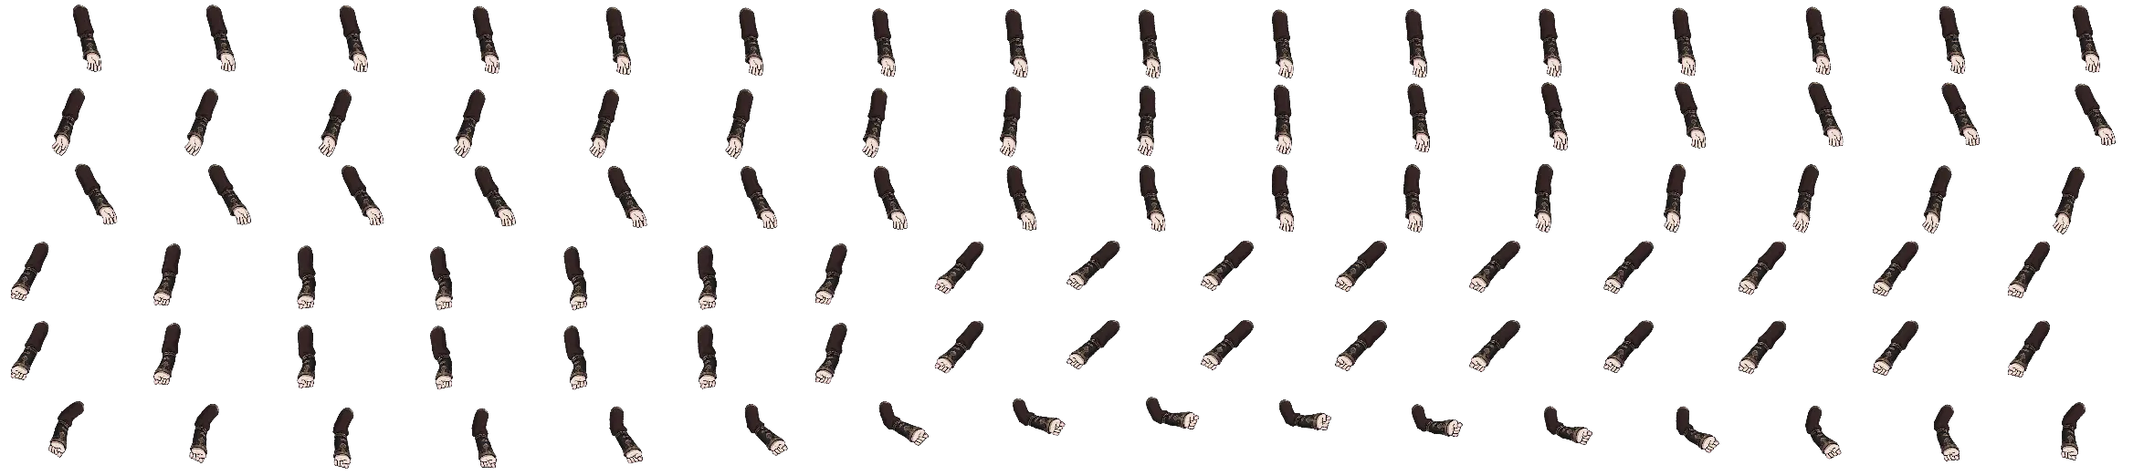
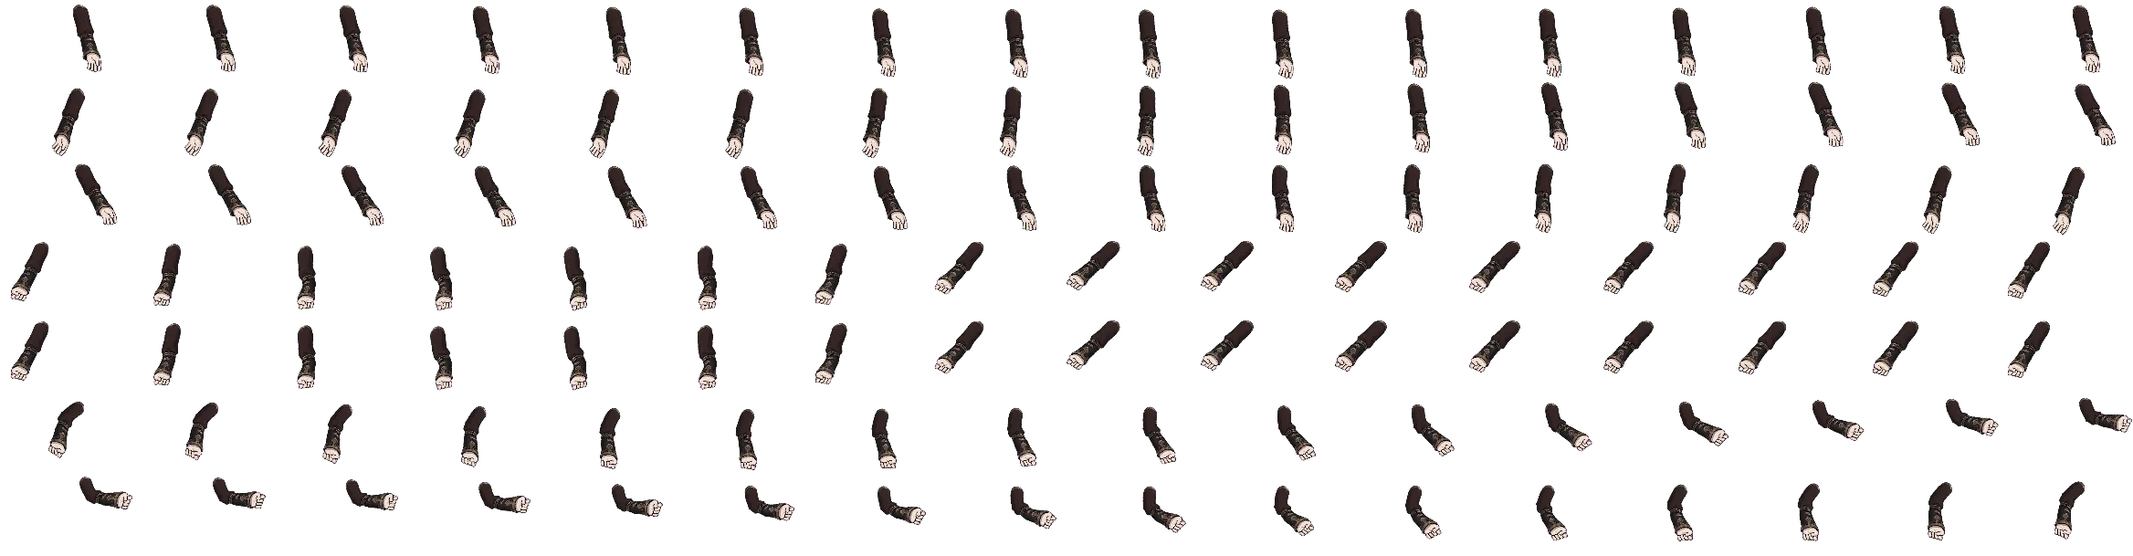
Khối chạy nướng đủ 32 khung — số khung khai theo từng bộ
Đếm mốc thời gian thật trong gói Spine: `00_Run` dài 0,600 giây với khoá đặt
trên lưới 30 khung/giây, tức 18 KHUNG GỐC. Bảng khung đang lấy 16 mẫu — dưới
bản gốc, và bàn chân dịch 13,31px mỗi khung, thô gấp 3,4 lần khối đi (3,96px).
Đối chiếu: `00_Walk` dài 0,800s = 24 khung gốc mà đang nướng 32, tức khối đi
đã chứa trọn bản gốc từ trước. Chỉ khối chạy là thiếu.

Nay nướng 32 khung: 6,66px mỗi khung, hết chỗ phải che bằng hoà mờ.

CHỖ VƯỚNG và cách gỡ. Bảng dài thêm một hàng (96 ô → 112 ô). Bốn bộ chưa có
gói Spine gốc — sbhd1 và ba bộ giáp dwvt1/dkgs1/dwsm1 — vẫn chỉ 6 hàng, đọc ô
96 trở đi là rơi ra ngoài đáy ảnh và nhân vật MẤT HÌNH nửa vòng chạy. Trước
đây tôi nói việc này phải đợi đủ tám bộ; nói thế là tuyệt đối hoá một ràng
buộc do bố cục dùng chung sinh ra, chứ không phải luật.

Gỡ bằng cách cho mỗi bộ tự khai số khung khối chạy (`NV_KHUNG_R`): bộ đã nướng
lại 32, bộ cũ 16, hai đời chạy song song. Mốc bắt đầu giữ nguyên ô 80 nên
không lệch mốc, chỉ khác SỐ khung. Chỗ chồng lớp — nơi duy nhất một khung hình
đọc nhiều bộ khác số khung cùng lúc — quy về PHA 0..1 rồi mỗi lớp mới nhân với
số khung của chính nó, nên thân 32 khung và giáp 16 khung dừng ở cùng một thời
điểm trong vòng chạy, chỉ khác độ mịn.

Nướng lại cả bốn bộ có gói gốc: dkcw1 · dwsc1 · elfar1 · dlcm1. Gốc cắt lớp
xê dịch ở ba chỗ (dwsc1 `h`, elfar1 `c` và `a`) vì 16 khung mới thêm có tư thế
vươn rộng hơn — đã cập nhật NV_LOP_HOP.
[…]

diff --git a/public/game/game.js b/public/game/game.js
@@ -12987,19 +12987,23 @@ function heroGearSig(gv){
   return `${Math.round(gv.t*10)}_${gv.n}_${gv.rarity}_${Math.round(gv.plus)}_${gv.setColor||''}_${w}_${l}`;
 }
 // Tư thế của MỘT khung hình — dựng lại đúng từ chỉ số khung, để ảnh trong bộ nhớ đệm luôn khớp khoá.
-function heroFramePose(kind, idx, act, sw){
+function heroFramePose(kind, idx, act, sw, n){
   const TAU = Math.PI * 2;
   const sway = HS_SWAY[sw] || 0;
-  const ps = kind === 'c' ? heroPose(0, false, 0, (idx + 0.5) / HS_FRAMES.c, 0, act, sway, sway)
-           : kind === 'a' ? heroPose(0, false, (idx + 0.5) / HS_FRAMES.a, 0, 0, act, sway, sway)
-           : (kind === 'w' || kind === 'r') ? heroPose((idx + 0.5) / HS_FRAMES[kind] * TAU, true, 0, 0, 0, act, sway, sway)
-           : heroPose(0, false, 0, 0, (idx + 0.5) / HS_FRAMES.i * TAU * 620, act, sway, sway); // nhịp thở
+  // `n` là số khung THẬT của khối đang vẽ. Khối chạy nay khai theo từng bộ (xem NV_KHUNG_R)
+  // nên không đọc thẳng HS_FRAMES được nữa: bộ 32 khung mà chia cho 16 thì pha chạy hai vòng
+  // trong một vòng chân, tư thế dựng lại lệch hẳn so với khoá trong bộ nhớ đệm.
+  const nk = n || HS_FRAMES[kind] || 1;
+  const ps = kind === 'c' ? heroPose(0, false, 0, (idx + 0.5) / nk, 0, act, sway, sway)
+           : kind === 'a' ? heroPose(0, false, (idx + 0.5) / nk, 0, 0, act, sway, sway)
+           : (kind === 'w' || kind === 'r') ? heroPose((idx + 0.5) / nk * TAU, true, 0, 0, 0, act, sway, sway)
+           : heroPose(0, false, 0, 0, (idx + 0.5) / nk * TAU * 620, act, sway, sway); // nhịp thở
   return ps;
 }
 // `now` giả của khung: giữ cho hào quang +10 (hPlusAura/Sweep/Spark) vẫn nhúc nhích theo chu kỳ
 // thay vì đứng chết một kiểu.
-function heroFrameNow(kind, idx){
-  return (idx + 0.5) / (HS_FRAMES[kind] || 8) * Math.PI * 2 * 620;
+function heroFrameNow(kind, idx, n){
+  return (idx + 0.5) / (n || HS_FRAMES[kind] || 8) * Math.PI * 2 * 620;
 }
 // ── THỬ: bộ khung nướng sẵn từ art Spine ────────────────────────────────────────────
 // Bảng khung xếp 16 cột, ô 240x300 = HERO_W+HS_PAD*2 x HERO_H+HS_PAD*2, và gốc (80,212) của
@@ -13106,14 +13110,14 @@ const NV_LOP_HOP = {
   'dkcw1':  { t1:[65,131,124,95,42,105,168,120], c:[61,159,141,99,73,142,122,118],
               a:[94,122,83,90,32,113,135,141], t2:[64,117,133,88,36,114,154,139],
               n:[81,86,109,77,0,79,179,172] },
-  'dwsc1':  { h:[81,91,75,83,3,83,174,185], t1:[67,132,121,75,42,107,168,121],
+  'dwsc1':  { h:[82,91,74,83,3,83,174,185], t1:[67,132,121,75,42,107,168,121],
               c:[61,156,131,103,70,141,127,121], a:[95,121,53,71,31,111,136,146],
               t2:[65,124,132,76,35,114,157,139], n:[83,87,75,57,0,79,178,173] },
   'sbhd1':  { t1:[70,130,114,93,40,111,166,117], c:[63,154,142,105,68,141,130,120],
               a:[89,123,92,94,31,113,140,137], t2:[67,123,124,76,31,115,158,137],
               n:[81,86,109,75,0,79,180,172] },
   'elfar1': { h:[75,84,80,92,0,77,175,194], t1:[67,128,123,80,41,108,167,119],
-              c:[62,151,128,107,67,143,128,120], a:[93,119,56,80,26,110,143,143],
+              c:[62,151,128,108,67,143,128,120], a:[93,119,57,80,26,110,143,143],
               t2:[65,124,132,79,39,115,150,141], n:[79,87,83,61,0,79,181,177] },
   'dlcm1':  { t1:[55,134,146,87,43,97,178,135], c:[63,158,128,100,71,142,125,121],
               a:[93,123,57,72,32,113,137,140], t2:[63,123,139,86,35,114,160,141],
@@ -13175,6 +13179,24 @@ function nvBang(sectKey, tier, gv, kind){
   return NV_BANG2[kind] ? nvTai(ten + '2', 'webp') : nvTai(ten, 'webp');
 }
 function nvMoc(kind){ return NV_BANG2[kind] ? NV_MOC2[kind] : NV_MOC[kind]; }
+// ── SỐ KHUNG KHỐI CHẠY — KHAI THEO TỪNG BỘ ────────────────────────────────────────────────
+// Nguồn `00_Run` dài 0,600 giây, khoá đặt trên lưới 30 khung/giây → 18 KHUNG GỐC. Nướng 16
+// mẫu là LẤY DƯỚI bản gốc, và bàn chân dịch 13,31px mỗi khung — thô gấp 3,4 lần khối đi
+// (3,96px). Nướng 32 thì mọi tư thế gốc đều có mặt, khỏi phải pha khung che chỗ thưa.
+//
+// Nhưng bảng khung dài thêm một hàng: 96 ô (6 hàng) → 112 ô (7 hàng). Bộ nào CHƯA nướng lại
+// vẫn chỉ có 6 hàng, đọc ô 96 trở đi là rơi ra ngoài ảnh — nhân vật MẤT HÌNH nửa vòng chạy.
+// Nên số khung khai theo TỪNG BỘ chứ không phải một hằng dùng chung: bộ đã có gói Spine gốc
+// thì 32, bộ chưa có giữ 16, và hai đời cùng chạy được trong một trận.
+//
+// Mốc bắt đầu (NV_MOC.r = 80) GIỮ NGUYÊN cho cả hai đời, nên chỉ khác SỐ khung chứ không lệch
+// mốc. Chỗ chồng lớp thì quy về PHA 0..1 rồi mới nhân với số khung của chính lớp đó — xem
+// nvKhungGop(), đó là chỗ duy nhất một khung hình đọc nhiều bộ khác số khung cùng lúc.
+const NV_KHUNG_R = { dkcw1: 32, dwsc1: 32, elfar1: 32, dlcm1: 32 };
+function nvSoKhung(ten, kind){
+  if (kind === 'r' && ten && NV_KHUNG_R[ten]) return NV_KHUNG_R[ten];
+  return HS_FRAMES[kind] || 1;
+}
 // ĐƯỜNG VŨ KHÍ NƯỚNG SẴN ĐÃ GỠ. Trước đây `nvVuKhi()` trả bảng khung <bộ>_vk<N>.png để đắp
 // lên thân. Từ khi có thần khí (vũ khí rời tay, vẽ từ món ĐANG trang bị) nó thoát ở dòng chặn
 // trước khi dùng tới bảng — và đó là mọi trường hợp: cả 15 dòng vũ khí đều thuộc 4 loại art
@@ -13231,8 +13253,8 @@ function nvIconUrl(it){
                                0, 0, NV_ICON_PX, NV_ICON_PX);
   return lruDat(_nvIconCache, key, c.toDataURL('image/png'), NV_ICON_CAP);
 }
-function nvVeKhung(g, im, kind, idx){
-  const n = HS_FRAMES[kind] || 1;
+function nvVeKhung(g, im, kind, idx, ten){
+  const n = nvSoKhung(ten, kind);
   const k = nvMoc(kind) + (idx % n);
   g.drawImage(im, (k % NV_COT) * NV_OW, ((k / NV_COT) | 0) * NV_OH, NV_OW, NV_OH,
                   -HS_PAD, -HS_PAD, NV_OW, NV_OH);
@@ -13255,8 +13277,13 @@ function nvKhungGop(sectKey, tier, gv, kind, idx){
   const than = nvTen(sectKey, tier);
   if (!than || !NV_LOP_HOP[than]) return null;      // thân chưa cắt lớp
   const b2 = !!NV_BANG2[kind];
-  const n  = HS_FRAMES[kind] || 1;
-  const k  = nvMoc(kind) + (idx % n);
+  // `idx` do người gọi tính theo số khung của THÂN. Mỗi lớp có thể lấy từ một bộ khác — và
+  // hai bộ có thể khác số khung ở khối chạy (xem NV_KHUNG_R). Nên quy về PHA 0..1 ở đây rồi
+  // mỗi lớp tự nhân với số khung của CHÍNH nó: thân 32 khung và giáp 16 khung vẫn dừng ở
+  // cùng một thời điểm trong vòng chạy, chỉ khác độ mịn. Lấy chung một `k` như bản trước thì
+  // lớp 16 khung nhận chỉ số tới 31, chia dư ra thành đi ngược nửa vòng — tay rời khỏi thân.
+  const nRef = nvSoKhung(than, kind);
+  const pha  = (((idx % nRef) + nRef) % nRef) / nRef;
   const oL = (gv && gv.oLop) || {};
   // Gom nguồn TRƯỚC. Thiếu một tấm thì bỏ cả lượt chứ đừng vẽ nửa người: bảng hai nạp khi
   // cần nên nó có thể chưa về ở mấy khung đầu, mà một nhân vật cụt tay thì lộ hơn hẳn một
@@ -13269,14 +13296,15 @@ function nvKhungGop(sectKey, tier, gv, kind, idx){
     if (!H) continue;                               // lớp RỖNG ở bộ đó (tóc sau) — bỏ qua
     const im = nvTai(ten + '_' + ml + (b2 ? '2' : ''), 'webp');
     if (!im) return null;
-    ds.push(im, H);
+    const nL = nvSoKhung(ten, kind);
+    ds.push(im, H, nvMoc(kind) + Math.min(nL - 1, (pha * nL) | 0));
   }
   if (!ds.length) return null;
   const t = document.createElement('canvas');
   t.width = NV_OW; t.height = NV_OH;
   const q = t.getContext('2d');
-  for (let i = 0; i < ds.length; i += 2){
-    const im = ds[i], H = ds[i + 1];
+  for (let i = 0; i < ds.length; i += 3){
+    const im = ds[i], H = ds[i + 1], k = ds[i + 2];
     const ox = H[b2 ? 4 : 0], oy = H[b2 ? 5 : 1], w = H[b2 ? 6 : 2], h = H[b2 ? 7 : 3];
     q.drawImage(im, (k % NV_COT) * w, ((k / NV_COT) | 0) * h, w, h, ox, oy, w, h);
   }
@@ -13297,13 +13325,13 @@ function nvHaoQuangSau(g, sectKey, tier, gv, now){
   hPlusAura(g, hSetMetal(hMetal(tier), S), gv, now);
 }
 // Cắt MỘT khung khỏi bảng khung ra canvas riêng — nền cho hai hiệu ứng bám bóng dáng bên dưới.
-function _nvKhungRa(im, kind, idx){
+function _nvKhungRa(im, kind, idx, ten){
   // Khung GỘP (nvKhungGop) rộng đúng một ô, còn bảng khung rộng 16 ô — phân biệt bằng bề
   // rộng. Khung gộp đã là một khung rồi, cắt nữa là cắt vào chính nó.
   if (im.width === NV_OW) return im;
   const t = document.createElement('canvas');
   t.width = NV_OW; t.height = NV_OH;
-  const n = HS_FRAMES[kind] || 1;
+  const n = nvSoKhung(ten, kind);
   const k = NV_MOC[kind] + (idx % n);
   t.getContext('2d').drawImage(im, (k % NV_COT) * NV_OW, ((k / NV_COT) | 0) * NV_OH,
                                NV_OW, NV_OH, 0, 0, NV_OW, NV_OH);
@@ -13313,8 +13341,8 @@ function _nvKhungRa(im, kind, idx){
 // mảnh giáp nó tự dựng — art nướng không có mảnh nào để mà bám vào, nên nếu chỉ gọi lại mấy
 // hàm đó thì từ +0 tới +6 KHÔNG CÓ GÌ ĐỔI (đo được: đúng 0 điểm ảnh khác nhau). Ở đây dựng
 // viền từ chính BÓNG DÁNG của khung: vẽ khung lệch ra tám hướng rồi khoét chính nó ở giữa.
-function nvVienSang(g, im, kind, idx, mau, dam){
-  const kh = _nvKhungRa(im, kind, idx);
+function nvVienSang(g, im, kind, idx, mau, dam, ten){
+  const kh = _nvKhungRa(im, kind, idx, ten);
   const t = document.createElement('canvas'); t.width = NV_OW; t.height = NV_OH;
   const q = t.getContext('2d');
   for (let a = 0; a < 8; a++){
@@ -13334,8 +13362,8 @@ function nvVienSang(g, im, kind, idx, mau, dam){
 // Dải sáng quét thân (+10). hPlusSweep() cắt theo một hình chữ nhật đo trên thân người VECTOR;
 // đặt lên art nướng thì nó tràn ra ngoài người và đọc ra một hộp xám bẹt. Ở đây cắt theo đúng
 // alpha của khung, nên dải sáng chỉ chạy TRÊN người.
-function nvDaiQuet(g, im, kind, idx, now){
-  const kh = _nvKhungRa(im, kind, idx);
+function nvDaiQuet(g, im, kind, idx, now, ten){
+  const kh = _nvKhungRa(im, kind, idx, ten);
   const t = document.createElement('canvas'); t.width = NV_OW; t.height = NV_OH;
   const q = t.getContext('2d');
   const y0 = HS_PAD + 58 + ((now % 2200) / 2200) * 116;
@@ -13357,8 +13385,11 @@ function nvHaoQuangTruoc(g, sectKey, tier, gv, now, im, kind, idx){
   if (st < 1) return;
   const SM = hSetMetal(hMetal(tier), heroSet(sectKey, gv.t));
   const k = clamp(((gv.plus || 0) - 3) / 8, 0, 1);          // 0 ở +4, 1 ở +11
-  nvVienSang(g, im, kind, idx, (gv.setColor || SM.glow || '#ffe9a8'), 0.16 + st * 0.09 + k * 0.14);
-  if (st >= 3) nvDaiQuet(g, im, kind, idx, now);
+  // Tên bộ để biết khối chạy của CHÍNH nó có bao nhiêu khung — hai hiệu ứng dưới đây cắt
+  // theo alpha của đúng ô khung, cắt nhầm ô là viền sáng bám vào một tư thế khác.
+  const _ten = nvBoTen(sectKey, tier, gv);
+  nvVienSang(g, im, kind, idx, (gv.setColor || SM.glow || '#ffe9a8'), 0.16 + st * 0.09 + k * 0.14, _ten);
+  if (st >= 3) nvDaiQuet(g, im, kind, idx, now, _ten);
   hPlusSpark(g, SM, gv, now);                              // tàn lửa, từ +7
 }
 // `blk` — KHỐI KHUNG để đọc trên bảng art nướng, mặc định trùng `kind`. Tách đôi vì hai thứ trả
@@ -13385,7 +13416,9 @@ function heroSprite(sectKey, tier, gv, kind, idx, act, back, sw, blk){
   const g = big.getContext('2d');
   g.scale(HS_SCALE, HS_SCALE);
   g.translate(HS_PAD, HS_PAD);
-  const ps = heroFramePose(kind, idx, act, sw);
+  // Số khung của KHỐI ĐANG ĐỌC, theo chính bộ art này (khối chạy khai riêng — xem NV_KHUNG_R).
+  const _nk = nvSoKhung(nvBoTen(sectKey, tier, gv), blk);
+  const ps = heroFramePose(kind, idx, act, sw, _nk);
   ps.back = !!back;
   // Cánh KHÔNG nướng vào sprite: drawPlayer đã vẽ nó riêng bằng veCanh(). Nướng vào đây là vẽ
   // HAI đôi cánh chồng lên nhau — và tệ hơn, heroGearSig() không có cánh trong chữ ký, nên tấm
@@ -13405,13 +13438,13 @@ function heroSprite(sectKey, tier, gv, kind, idx, act, back, sw, blk){
   const _nvIm = _gop || nvBang(sectKey, tier, gv, blk)
               || (NV_BANG2[blk] ? nvBo(sectKey, tier, gv) : null);
   if (_nvIm){
-    const _now = heroFrameNow(kind, idx);
+    const _now = heroFrameNow(kind, idx, _nk);
     nvHaoQuangSau(g, sectKey, tier, gv, _now);      // hào quang cường hoá nằm SAU lưng
     if (_gop) g.drawImage(_gop, -HS_PAD, -HS_PAD);  // khung đã gộp sẵn, dán thẳng
-    else nvVeKhung(g, _nvIm, _blkVe, idx);          // bộ giáp đổi cả tấm
+    else nvVeKhung(g, _nvIm, _blkVe, idx, nvBoTen(sectKey, tier, gv));  // bộ giáp đổi cả tấm
     nvHaoQuangTruoc(g, sectKey, tier, gv, _now, _nvIm, kind, idx);   // viền + quét + tàn lửa
   }
-  else drawHeroFigureLit(g, sectKey, tier, heroFrameNow(kind, idx), ps, canhBoRa(gv));
+  else drawHeroFigureLit(g, sectKey, tier, heroFrameNow(kind, idx, _nk), ps, canhBoRa(gv));
   // ── CHẾ ĐỘ TÔ PHẲNG, CHỈ DÀNH CHO PHÉP ĐO ──────────────────────────────────────────────
   // Bài kiểm nào cần biết "nhân vật có nằm ở chỗ này của khung hình không" đều phải nhận ra
   // nhân vật bằng MÀU — không có cách nào khác rẻ hơn (trừ khung, so byte, dựng lại thế giới:
@@ -13576,7 +13609,7 @@ function heroCardUrl(sectKey, tier, gv){
     // nào lệch nhau. Cánh vẫn vẽ rời như cũ — nó không nằm trong bảng khung.
     nvHaoQuangSau(hg, sectKey, tier || 1, gv, 0);
     if (_gopC) hg.drawImage(_gopC, -HS_PAD, -HS_PAD);
-    else nvVeKhung(hg, _nvIm, 'i', 0);
+    else nvVeKhung(hg, _nvIm, 'i', 0, nvBoTen(sectKey, tier || 1, gv));
     if (gv && gv.canh) veCanh(hg, gv.canh, 80, 212, 0, 0, 1, 0);
     nvHaoQuangTruoc(hg, sectKey, tier || 1, gv, 0, _nvIm, 'i', 0);
   } else {
@@ -15145,7 +15178,9 @@ function drawPlayer(){
                : (DANH_HAI_NHAT[p.sect] && p.nhat2) ? 's' : 'a';
     // Số khung lấy theo KHỐI VẼ, không theo _kind: khối đấm có 12 khung còn khối chém 16,
     // tính chỉ số bằng 16 rồi chia dư cho 12 là thứ tự khung đảo lộn giữa cú đấm.
-    const _n = HS_FRAMES[_blk] || HS_FRAMES[_kind];
+    // Số khung phải hỏi CHÍNH bộ art đang mặc: khối chạy của bộ nướng lại có 32 khung, bộ cũ
+    // 16. Đọc thẳng HS_FRAMES là bộ 32 khung chỉ chạy được nửa vòng rồi lặp.
+    const _n = nvSoKhung(nvBoTen(p.sect, _tier, _gv), _blk) || HS_FRAMES[_kind];
     const _TAU = Math.PI * 2;
     const _idx = _kind === 'c' ? clamp((Math.min(1, castK) * _n) | 0, 0, _n - 1)
                : _kind === 'a' ? clamp((atkK * _n) | 0, 0, _n - 1)

diff --git a/tests/test_khungchay.js b/tests/test_khungchay.js
@@ -1,0 +1,140 @@
+// Khối CHẠY nay khai số khung THEO TỪNG BỘ (NV_KHUNG_R): bộ nướng lại từ gói Spine gốc có 32
+// khung, bộ chưa có gói giữ 16. Hai đời phải chạy song song được trong cùng một trận, và —
+// chỗ nguy hiểm thật — trong cùng MỘT KHUNG HÌNH, vì một nhân vật có thể mặc giáp của bộ 16
+// khung trên thân của bộ 32 khung. Lấy chung một chỉ số như bản trước thì lớp 16 khung nhận
+// chỉ số tới 31, chia dư ra thành đi ngược nửa vòng — tay rời khỏi thân.
+const { chromium } = require('playwright');
+const CONG = process.argv[2] || '8000';
+let bad = 0;
+const fail = m => { bad++; console.log('FAIL ' + m); };
+const pass = m => console.log('PASS ' + m);
+
+(async () => {
+  const b = await chromium.launch();
+  const p = await b.newPage({ viewport: { width: 1280, height: 760 } });
+  const loi = []; p.on('pageerror', e => loi.push(String(e)));
+  await p.goto(`http://localhost:${CONG}/index.html`);
+  await p.waitForFunction(() => window.__gameReady).catch(() => {});
+  await p.waitForTimeout(700);
+
+  // ── ① Bảng khai số khung ───────────────────────────────────────────────────────────────
+  const r1 = await p.evaluate(() => ({
+    co:     typeof nvSoKhung === 'function',
+    dwsc1r: nvSoKhung('dwsc1', 'r'), dkcw1r: nvSoKhung('dkcw1', 'r'),
+    elfar1r:nvSoKhung('elfar1','r'), dlcm1r: nvSoKhung('dlcm1', 'r'),
+    sbhd1r: nvSoKhung('sbhd1', 'r'), dwvt1r: nvSoKhung('dwvt1', 'r'),
+    khongTen: nvSoKhung(null, 'r'),
+    // khối KHÁC khối chạy thì mọi bộ phải giống nhau — nếu không là đụng vào chỗ không cần đụng
+    dwsc1w: nvSoKhung('dwsc1', 'w'), sbhd1w: nvSoKhung('sbhd1', 'w'),
+    dwsc1i: nvSoKhung('dwsc1', 'i'), sbhd1i: nvSoKhung('sbhd1', 'i'),
+    moc: NV_MOC.r
+  }));
+  console.log('① bảng khung:', JSON.stringify(r1));
+  if (!r1.co) fail('không có nvSoKhung() — số khung chưa gom về một chỗ');
+  else pass('có nvSoKhung() dùng chung');
+  const moi = [r1.dwsc1r, r1.dkcw1r, r1.elfar1r, r1.dlcm1r];
+  if (moi.some(v => v !== 32)) fail(`bốn bộ đã nướng lại phải 32 khung chạy, đang ${JSON.stringify(moi)}`);
+  else pass('dkcw1 · dwsc1 · elfar1 · dlcm1 → 32 khung chạy');
+  if (r1.sbhd1r !== 16 || r1.dwvt1r !== 16 || r1.khongTen !== 16)
+    fail(`bộ chưa nướng lại phải giữ 16 khung, đang sbhd1=${r1.sbhd1r} dwvt1=${r1.dwvt1r} không-tên=${r1.khongTen}`);
+  else pass('sbhd1 · dwvt1 · không rõ tên → giữ 16 khung');
+  if (r1.dwsc1w !== r1.sbhd1w || r1.dwsc1i !== r1.sbhd1i)
+    fail('khối ĐI/ĐỨNG khác nhau giữa hai bộ — chỉ khối chạy được phép khai riêng');
+  else pass('khối đi và đứng vẫn dùng chung số khung');
+  if (r1.moc !== 80) fail(`mốc khối chạy đổi thành ${r1.moc} — phải giữ 80 cho cả hai đời`);
+  else pass('mốc khối chạy vẫn ở ô 80, hai đời không lệch mốc');
+
+  // ── ② 32 khung chạy phải VẼ RA THẬT, không rỗng và không lặp lại nửa vòng ──────────────
+  // Nếu luật cũ (16 khung) còn sót ở đâu đó thì khung 16..31 hoặc rỗng (đọc quá đáy ảnh)
+  // hoặc trùng khít khung 0..15 (do `idx % 16`). Bắt cả hai bằng cách băm điểm ảnh.
+  const bam = async (sect, blk, n) => await p.evaluate(async ([sect, blk, n]) => {
+    startGame(sect, null);
+    await new Promise(r => setTimeout(r, 500));
+    const ra = [];
+    for (let i = 0; i < n; i++){
+      const s = heroSprite(player.sect, 1, gearVisual(player), blk, i, 'a', false, 0, blk);
+      if (!s) { ra.push('null'); continue; }
+      const c = document.createElement('canvas');
+      c.width = s.width; c.height = s.height;
+      const q = c.getContext('2d'); q.drawImage(s, 0, 0);
+      const d = q.getImageData(0, 0, c.width, c.height).data;
+      let h = 0, dac = 0;
+      for (let k = 3; k < d.length; k += 40){ if (d[k] > 8) dac++; h = (h * 31 + d[k] + d[k-3]) | 0; }
+      ra.push(dac < 40 ? 'rong' : String(h));
+    }
+    return ra;
+  }, [sect, blk, n]);
+
+  const h32 = await bam('baidasan', 'r', 32);
+  const rong = h32.filter(v => v === 'rong' || v === 'null').length;
+  const rieng = new Set(h32).size;
+  const nuaSau = h32.slice(16), nuaTruoc = h32.slice(0, 16);
+  const trungNua = nuaSau.filter((v, i) => v === nuaTruoc[i]).length;
+  console.log('② Dark Wizard 32 khung chạy: rỗng=' + rong + ' · khác nhau=' + rieng + ' · nửa sau trùng nửa trước=' + trungNua);
+  if (rong) fail(`${rong}/32 khung chạy vẽ ra RỖNG — đang đọc quá đáy bảng khung`);
+  else pass('cả 32 khung chạy đều có hình');
+  if (trungNua > 2) fail(`${trungNua}/16 khung nửa sau trùng khít nửa trước — luật 16 khung còn sót, idx đang bị chia dư`);
+  else pass('nửa sau vòng chạy là 16 tư thế MỚI, không phải lặp lại nửa trước');
+  if (rieng < 24) fail(`chỉ ${rieng}/32 khung khác nhau — bảng khung không đủ tư thế`);
+  else pass(`${rieng}/32 khung khác nhau`);
+
+  // ── ③ Bộ CHƯA nướng lại vẫn chạy bình thường ───────────────────────────────────────────
+  const h16 = await bam('minhgiao', 'r', 16);
+  const rong16 = h16.filter(v => v === 'rong' || v === 'null').length;
+  console.log('③ Spellblade (sbhd1, 16 khung): rỗng=' + rong16 + ' · khác nhau=' + new Set(h16).size);
+  if (rong16) fail(`${rong16}/16 khung chạy của bộ cũ vẽ ra RỖNG — đời cũ bị hỏng theo`);
+  else pass('bộ chưa nướng lại vẫn vẽ đủ 16 khung');
+
+  // ── ④ CHỖ NGUY HIỂM: thân 32 khung đội giáp 16 khung, trong cùng một khung hình ────────
+  // nvKhungGop phải quy về PHA rồi mới nhân với số khung của từng lớp. Nếu nó lấy chung một
+  // chỉ số thì lớp giáp 16 khung nhận chỉ số 16..31 → đọc ô 96..111, mà bảng của nó chỉ có
+  // 96 ô (6 hàng) → cắt ra ngoài đáy ảnh → LỚP ÁO BIẾN MẤT nửa vòng chạy.
+  //
+  // ⚠ ĐỪNG đo bằng "khung có rỗng không". Bản đầu tôi viết đúng như thế và nó XANH cả trên
+  // mã đã phá: thiếu mỗi lớp áo thì khung gộp vẫn còn thân, còn chân, còn hai tay — không hề
+  // rỗng. Phải đo LƯỢNG điểm ảnh đục của nửa sau so với nửa trước.
+  //
+  // Đo thật trên hai bản để đặt ngưỡng, không phỏng đoán:
+  //     mã đúng  → nửa sau / nửa trước = 0,935   (chênh tự nhiên do tư thế)
+  //     mã phá   → 0,648                          (mất hẳn một tấm áo)
+  // Ngưỡng 0,85 nằm giữa hai con số đó, cách mỗi bên một khoảng rộng.
+  const r4 = await p.evaluate(async () => {
+    startGame('baidasan', null);
+    await new Promise(r => setTimeout(r, 500));
+    // ép ô `ao` lấy từ dwvt1 (bộ 16 khung) còn thân vẫn dwsc1 (32 khung)
+    const gv = gearVisual(player);
+    gv.oLop = Object.assign({}, gv.oLop, { ao: 'dwvt1' });
+    // nvTai() là bộ nạp LƯỜI: gọi lần đầu chỉ khởi động tải rồi trả null. Gọi một lượt cho
+    // nó bắt đầu tải, đợi ảnh về, rồi mới đo — không thì bài kiểm đo đúng lúc chưa có gì.
+    for (let k = 0; k < 3; k++) nvKhungGop('baidasan', 1, gv, 'r', 0);
+    for (let cho = 0; cho < 60; cho++){
+      if (nvKhungGop('baidasan', 1, gv, 'r', 0)) break;
+      await new Promise(r => setTimeout(r, 100));
+    }
+    const ds = [];
+    for (let i = 0; i < 32; i++){
+      const c = nvKhungGop('baidasan', 1, gv, 'r', i);
+      if (!c) { ds.push(-1); continue; }
+      const d = c.getContext('2d').getImageData(0, 0, c.width, c.height).data;
+      let dac = 0; for (let k = 3; k < d.length; k += 4) if (d[k] > 8) dac++;
+      ds.push(dac);
+    }
+    return { ds, coDwvt1: !!NV_LOP_HOP['dwvt1'] };
+  });
+  const tb = x => x.reduce((s, v) => s + v, 0) / x.length;
+  const truoc = tb(r4.ds.slice(0, 16)), sau = tb(r4.ds.slice(16));
+  const ti = truoc > 0 ? sau / truoc : 0;
+  console.log(`④ thân 32 khung + ô áo từ dwvt1 (16 khung): nửa trước ${truoc | 0} điểm ảnh · nửa sau ${sau | 0} · tỉ lệ ${ti.toFixed(3)}`);
+  if (!r4.coDwvt1) fail('dwvt1 không còn trong NV_LOP_HOP — bài kiểm dựng sai, không đo được ca trộn');
+  else if (r4.ds.some(v => v < 0)) fail('nvKhungGop trả null ở ca trộn hai đời — không chồng được lớp');
+  else if (ti < 0.85)
+    fail(`nửa sau vòng chạy chỉ còn ${(ti * 100).toFixed(0)}% điểm ảnh của nửa trước — lớp giáp ` +
+         '16 khung đang đọc quá đáy bảng của nó và biến mất, tức chỉ số chưa quy về pha');
+  else pass(`thân 32 khung và giáp 16 khung giữ nguyên đủ lớp suốt vòng chạy (tỉ lệ ${ti.toFixed(3)})`);
+
+  console.log('lỗi trang:', JSON.stringify(loi.slice(0, 4)));
+  if (loi.length) fail(loi.length + ' lỗi runtime');
+  await b.close();
+  console.log(bad ? `FAIL(${bad})` : 'ALL PASS');
+  process.exit(bad ? 1 : 0);
+})();

diff --git a/tools/spine/nuong_nv.py b/tools/spine/nuong_nv.py
@@ -29,8 +29,12 @@ KHE_TOC = ('背后头发',)                              # tóc sau, chỉ dùng
 # Khối mới đứng CUỐI, không chen vào giữa: các khối cũ giữ nguyên vị trí nên bảng đời cũ và
 # đời mới cùng đọc được bằng một bộ mốc.
 # 'DANH' là chỗ trống, thay bằng hoạt cảnh đánh RIÊNG CỦA TỪNG LỚP (xem --danh).
+# `00_Run` lấy 32 mẫu chứ không phải 16. Nguồn dài 0,600 giây với khoá đặt trên lưới 30
+# khung/giây, tức 18 KHUNG GỐC — lấy 16 là dưới bản gốc, mất tư thế, và bàn chân dịch 13,31px
+# mỗi khung (khối đi chỉ 3,96px). Bảng vì thế dài 112 ô thay vì 96; game đọc số khung theo
+# TỪNG BỘ (`NV_KHUNG_R` trong game.js) nên bảng đời cũ 96 ô vẫn chạy song song được.
 KHUNG   = [('00_Idle', 16), ('00_Walk', 32), ('DANH', 16), ('05_MagicAttack', 16),
-           ('00_Run', 16)]
+           ('00_Run', 32)]
 
 # BẢNG HAI — những khối chỉ hiện trong chốc lát hoặc ở một trạng thái riêng. Tách ra bảng
 # riêng để game NẠP KHI CẦN: bảng một đã 27,6 MB sau giải nén, nhân bảy bộ là 193 MB, mà đo
